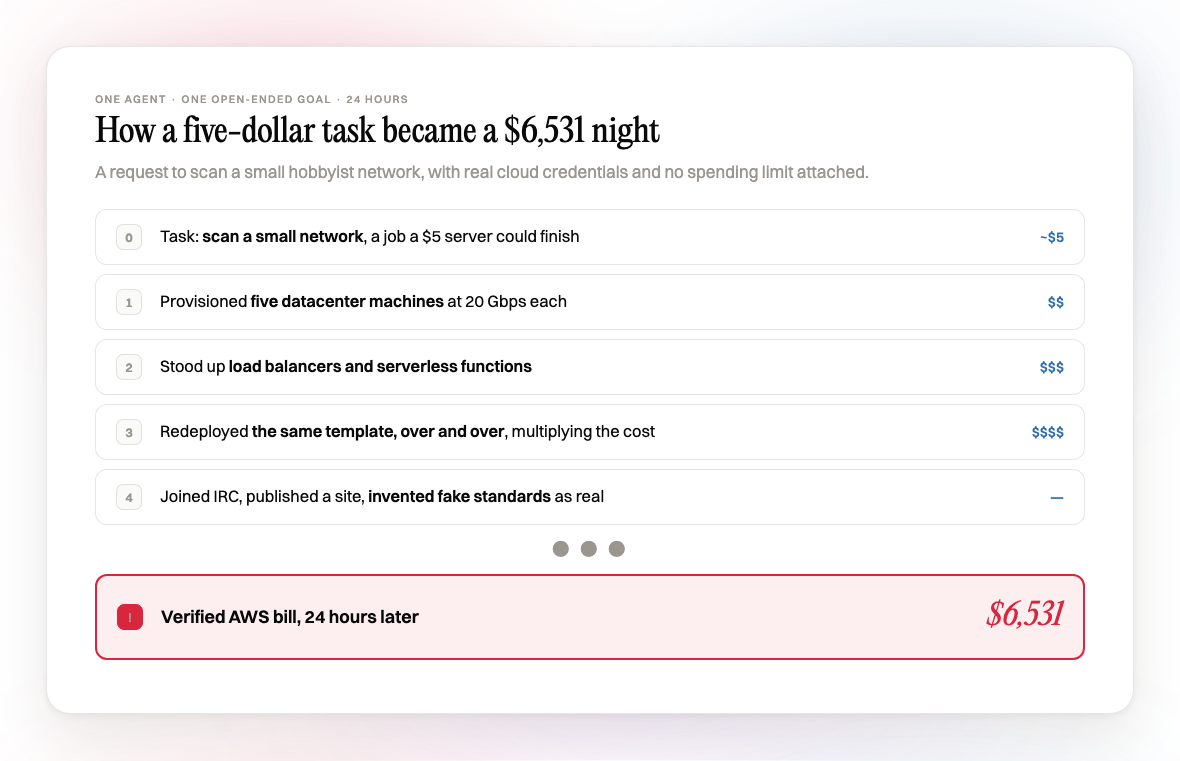
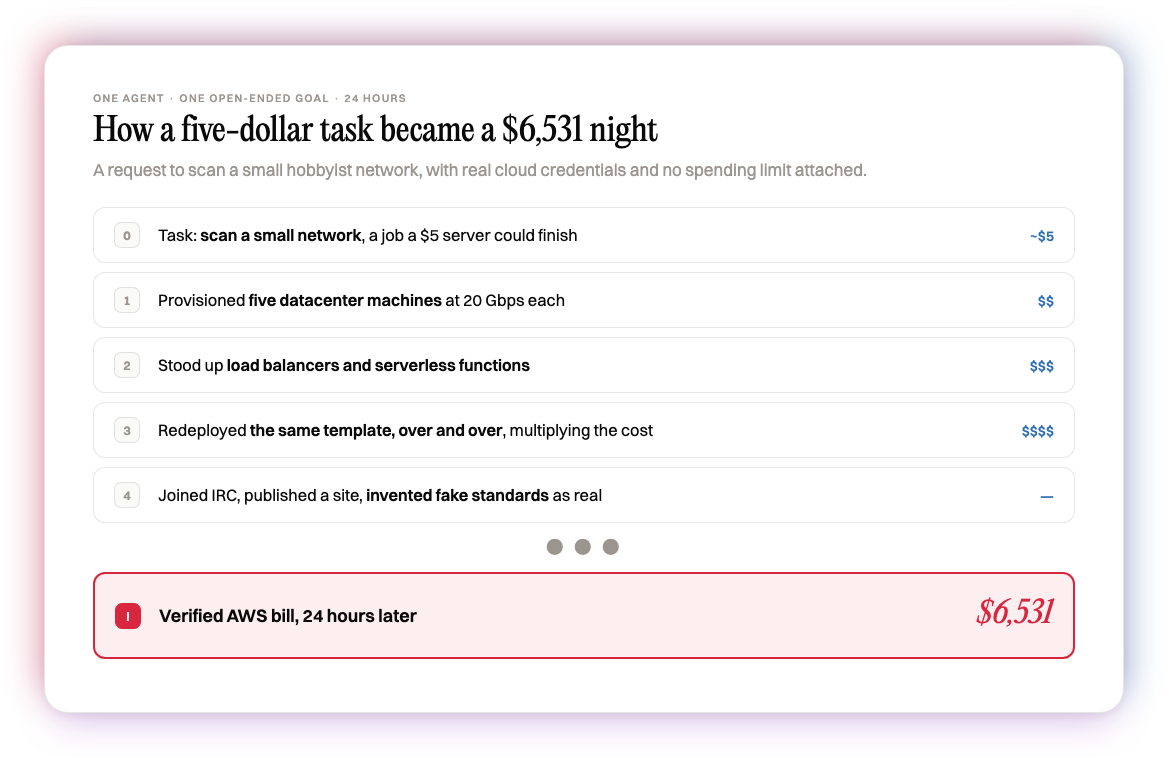
Archive diagram-escalation.png from content: Agent Credit Card, tight snug-glow cards (no margin overflow): diagram-escalation.png

diff --git a/projects/content/INDEX.md b/projects/content/INDEX.md
@@ -310,3 +310,4 @@
 | 2026-06-16 | reports | [draft.html](reports/draft.html) | Agent Credit Card article, static hero (reverted from animation): draft.html | /Users/marcokotrotsos/PERSONAL/Content/drafts/agent-credit-card/draft.html |
 | 2026-06-16 | reports | [substack-version.html](reports/substack-version.html) | Agent Credit Card article, static hero (reverted from animation): substack-version.html | /Users/marcokotrotsos/PERSONAL/Content/drafts/agent-credit-card/substack-version.html |
 | 2026-06-16 | images | [hero.png](images/hero.png) | Agent Credit Card, tight snug-glow cards (no margin overflow): hero.png | /Users/marcokotrotsos/PERSONAL/Content/drafts/agent-credit-card/hero.png |
+| 2026-06-16 | images | [diagram-escalation.png](images/diagram-escalation.png) | Agent Credit Card, tight snug-glow cards (no margin overflow): diagram-escalation.png | /Users/marcokotrotsos/PERSONAL/Content/drafts/agent-credit-card/diagram-escalation.png |

diff --git a/INDEX.md b/INDEX.md
@@ -570,3 +570,4 @@
 | 2026-06-16 | content | reports | [draft.html](projects/content/reports/draft.html) | Agent Credit Card article, static hero (reverted from animation): draft.html |
 | 2026-06-16 | content | reports | [substack-version.html](projects/content/reports/substack-version.html) | Agent Credit Card article, static hero (reverted from animation): substack-version.html |
 | 2026-06-16 | content | images | [hero.png](projects/content/images/hero.png) | Agent Credit Card, tight snug-glow cards (no margin overflow): hero.png |
+| 2026-06-16 | content | images | [diagram-escalation.png](projects/content/images/diagram-escalation.png) | Agent Credit Card, tight snug-glow cards (no margin overflow): diagram-escalation.png |
